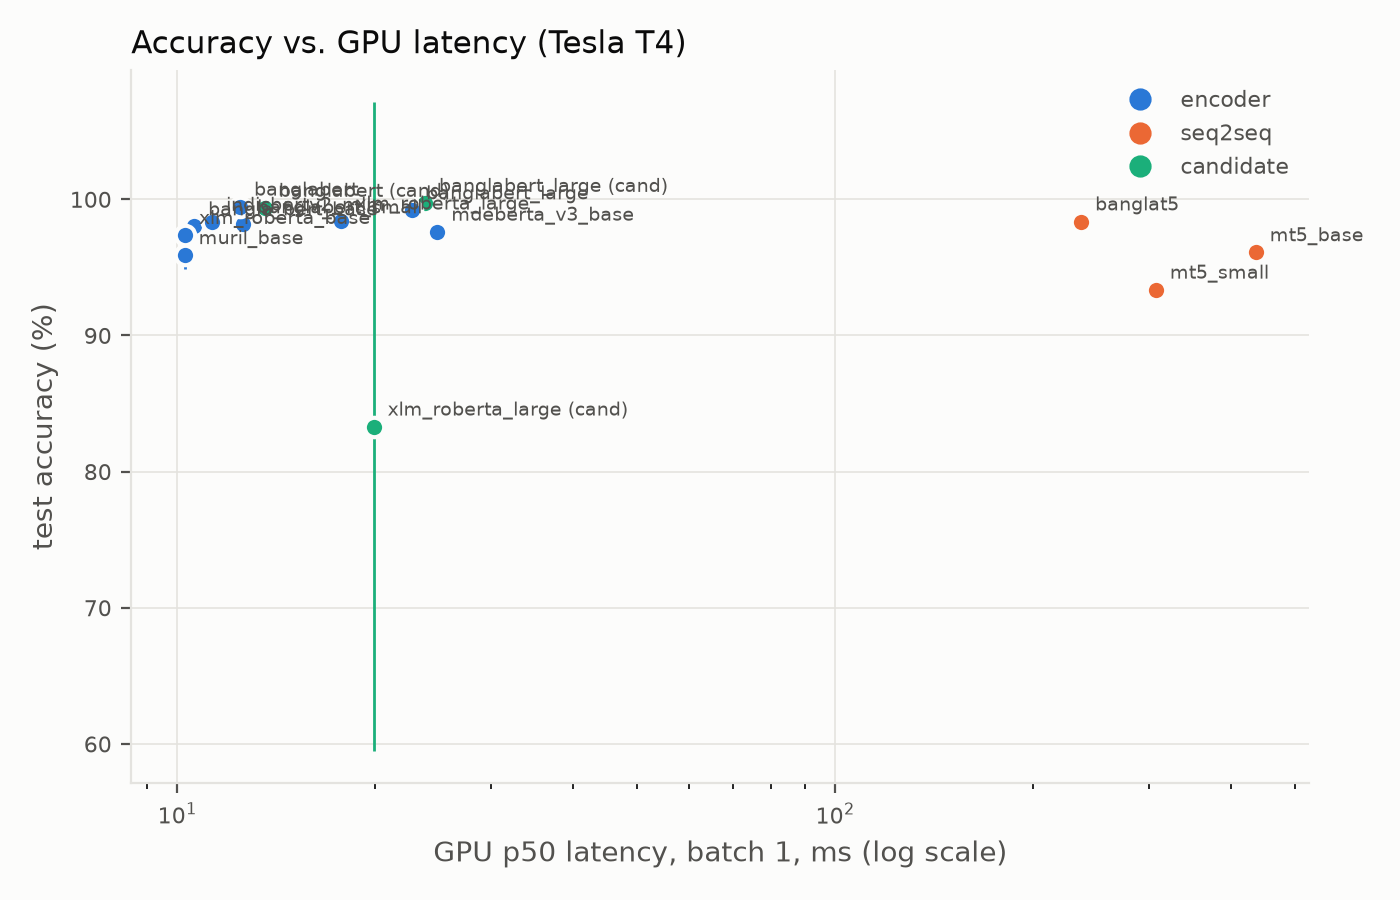
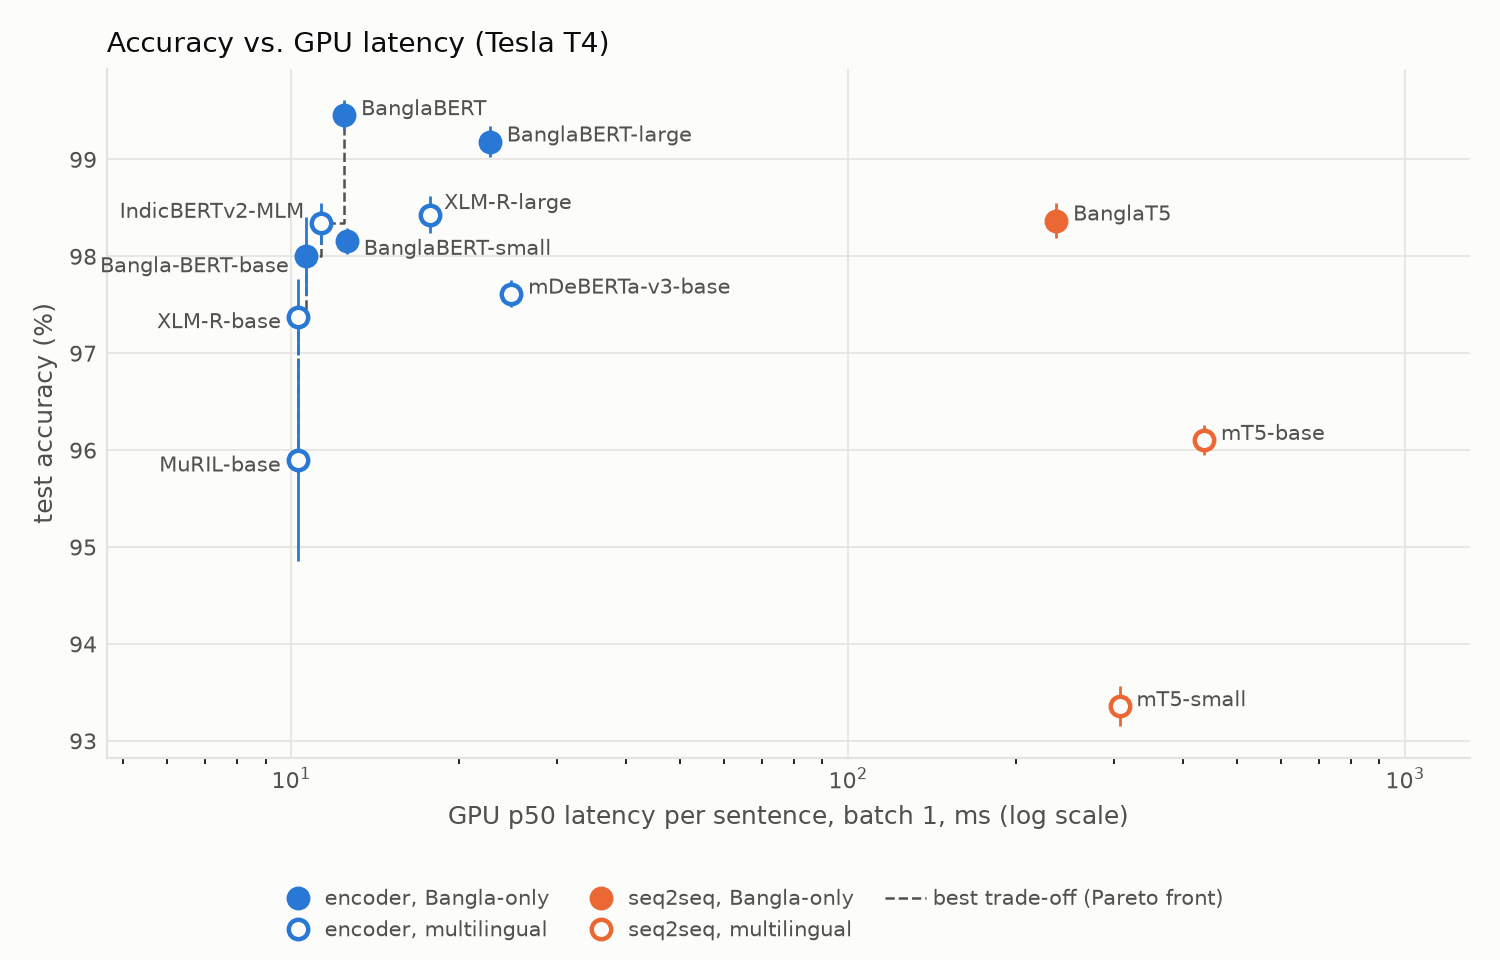
Results plots: display names, no overlapping labels, legends outside the data, model-type colours in learning curves

diff --git a/scripts/aggregate.py b/scripts/aggregate.py
@@ -29,8 +29,8 @@ ABLATIONS = {
     "encoder head": [("main", "opening marker token"), ("abl_head_mean", "mean of target tokens"), ("abl_head_cls", "[CLS]")],
     "seq2seq output": [("main", "full sentence"), ("abl_output_target", "target pronunciation only")],
 }
-# Reference categorical palette, first three slots (validated all-pairs for scatter plots).
-COLORS = {"encoder": "#2a78d6", "seq2seq": "#eb6834", "candidate": "#1baf7a"}
+# Reference categorical palette, first two slots (validated all-pairs for scatter plots).
+COLORS = {"encoder": "#2a78d6", "seq2seq": "#eb6834"}
 INK, INK_2, GRID, SURFACE = "#0b0b0b", "#52514e", "#e4e3df", "#fcfcfb"
 BENGALI_FONT = "/usr/share/fonts/truetype/noto/NotoSansBengali-Regular.ttf"
 
@@ -205,83 +205,148 @@ def lr_search() -> pd.DataFrame:
     return pd.DataFrame(rows)
 
 
-def style(ax, xlabel: str, ylabel: str, title: str) -> None:
+NAMES = {"banglabert_small": "BanglaBERT-small", "banglabert": "BanglaBERT", "bangla_bert_base": "Bangla-BERT-base",
+         "muril_base": "MuRIL-base", "banglat5": "BanglaT5", "xlm_roberta_base": "XLM-R-base",
+         "indicbertv2_mlm": "IndicBERTv2-MLM", "mdeberta_v3_base": "mDeBERTa-v3-base", "mt5_small": "mT5-small",
+         "banglabert_large": "BanglaBERT-large", "xlm_roberta_large": "XLM-R-large", "mt5_base": "mT5-base"}
+BANGLA_ONLY = {"banglabert_small", "banglabert", "bangla_bert_base", "banglat5", "banglabert_large"}
+# Label offsets (points) and alignment for the crowded clusters, per plot; other labels sit to the right of the point.
+LABELS = {
+    "params": {"indicbertv2_mlm": (0, 9, "center"), "bangla_bert_base": (-6, -4, "right"), "banglat5": (-6, -6, "right"), "muril_base": (-6, -3, "right"),
+               "mt5_small": (-6, -3, "right"), "mdeberta_v3_base": (6, 3, "left"), "xlm_roberta_base": (6, -5, "left")},
+    "gpu": {"indicbertv2_mlm": (-6, 4, "right"), "bangla_bert_base": (-6, -4, "right"), "banglabert_small": (6, -3, "left"),
+            "xlm_roberta_base": (-6, -2, "right"), "muril_base": (-6, -2, "right"), "xlm_roberta_large": (5, 4, "left")},
+    "cpu": {"banglabert_small": (-6, 0, "right"), "indicbertv2_mlm": (-6, 5, "right"), "bangla_bert_base": (-6, -5, "right"),
+            "xlm_roberta_large": (0, 7, "center"), "xlm_roberta_base": (6, -3, "left"), "muril_base": (6, -3, "left")},
+}
+LC_YMIN = 80  # learning-curve points below are drawn as an arrow at the bottom edge with their value
+
+
+def style(ax, xlabel: str, ylabel: str, title: str = "") -> None:
     ax.set_facecolor(SURFACE)
-    ax.set_title(title, loc="left", color=INK, fontsize=11)
-    ax.set_xlabel(xlabel, color=INK_2)
-    ax.set_ylabel(ylabel, color=INK_2)
+    if title:
+        ax.set_title(title, loc="left", color=INK, fontsize=10)
+    ax.set_xlabel(xlabel, color=INK_2, fontsize=9)
+    ax.set_ylabel(ylabel, color=INK_2, fontsize=9)
     ax.grid(True, color=GRID, linewidth=0.6)
     ax.set_axisbelow(True)
     for side in ("top", "right"):
         ax.spines[side].set_visible(False)
     for side in ("left", "bottom"):
         ax.spines[side].set_color(GRID)
-    ax.tick_params(colors=INK_2, labelsize=8)
+    ax.tick_params(colors=INK_2, labelsize=8, length=0)
 
 
-def legend(ax, kinds: set[str]) -> None:
-    handles = [plt.Line2D([], [], marker="o", linestyle="", markersize=7, color=COLORS[k], label=k) for k in COLORS if k in kinds]
-    ax.legend(handles=handles, frameon=False, fontsize=8, labelcolor=INK_2)
+def pareto(points: list[tuple[float, float]]) -> list[tuple[float, float]]:
+    """Points not beaten in accuracy by any faster point, sorted by latency."""
+    front, best = [], -1.0
+    for x, y in sorted(points):
+        if y > best:
+            front.append((x, y))
+            best = y
+    return front
 
 
-def scatter(points: pd.DataFrame, x: str, xlabel: str, title: str, out: Path) -> None:
+def scatter(points: pd.DataFrame, x: str, xlabel: str, title: str, panel: str, out: Path) -> None:
+    """Main-split accuracy against size or latency: colour = model type, filled = Bangla-only, hollow = multilingual."""
     points = points.dropna(subset=[x])
     if points.empty:
         return
-    fig, ax = plt.subplots(figsize=(7, 4.5), facecolor=SURFACE)
-    for kind, g in points.groupby("kind"):
-        ax.errorbar(g[x], g["accuracy_mean"] * 100, yerr=g["accuracy_std"].fillna(0) * 100, fmt="o", markersize=7,
-                    color=COLORS[kind], ecolor=COLORS[kind], elinewidth=1, capsize=0, markeredgecolor=SURFACE, markeredgewidth=1.5)
+    fig, ax = plt.subplots(figsize=(7.5, 4.8), facecolor=SURFACE)
     for row in points.itertuples():
-        ax.annotate(row.label, (getattr(row, x), row.accuracy_mean * 100), xytext=(5, 4), textcoords="offset points", fontsize=7, color=INK_2)
+        color, y = COLORS[row.model_type], row.accuracy_mean * 100
+        ax.errorbar(getattr(row, x), y, yerr=0 if np.isnan(row.accuracy_std) else row.accuracy_std * 100, fmt="o", markersize=7,
+                    color=color, ecolor=color, elinewidth=1, capsize=0, markeredgewidth=1.6,
+                    markerfacecolor=color if row.model in BANGLA_ONLY else SURFACE, zorder=3)
+        dx, dy, ha = LABELS[panel].get(row.model, (6, 2, "left"))
+        ax.annotate(NAMES.get(row.model, row.model), (getattr(row, x), y), xytext=(dx, dy), textcoords="offset points",
+                    ha=ha, va="center", fontsize=7.5, color=INK_2)
+    if panel != "params":
+        front = pareto(list(zip(points[x], points["accuracy_mean"] * 100)))
+        ax.step(*zip(*front), where="post", color=INK_2, linestyle="--", linewidth=0.9, zorder=2)
     ax.set_xscale("log")
+    if panel == "params":
+        ticks = [1e7, 3e7, 1e8, 3e8, 1e9]
+        ax.set_xticks(ticks, [f"{t / 1e6:g}M" if t < 1e9 else "1B" for t in ticks])
+        ax.xaxis.set_minor_formatter(matplotlib.ticker.NullFormatter())
+    lo, hi = points[x].min(), points[x].max()
+    ax.set_xlim(lo / 2.2, hi * 3)
     style(ax, xlabel, "test accuracy (%)", title)
-    legend(ax, set(points["kind"]))
+    handles = [plt.Line2D([], [], marker="o", linestyle="", markersize=7, markeredgewidth=1.6, color=COLORS[kind],
+                          markerfacecolor=COLORS[kind] if filled else SURFACE, label=f"{kind}, {langs}")
+               for kind in ("encoder", "seq2seq") for filled, langs in ((True, "Bangla-only"), (False, "multilingual"))]
+    if panel != "params":
+        handles.append(plt.Line2D([], [], color=INK_2, linestyle="--", linewidth=0.9, label="best trade-off (Pareto front)"))
+    ncol = 4 if len(handles) == 4 else 3
+    fig.legend(handles=handles, loc="lower center", ncol=ncol, frameon=False, fontsize=7.5, labelcolor=INK_2,
+               handletextpad=0.3, columnspacing=1.5)
+    fig.tight_layout(rect=(0, 0.05 * -(-len(handles) // ncol), 1, 1))
+    fig.savefig(out, dpi=200, facecolor=SURFACE)
+    plt.close(fig)
+
+
+def learning_curve_plot(curve: pd.DataFrame, types: dict[str, str]) -> None:
+    order = [m for m, _ in MODELS if m in set(curve["model"])]
+    cols = min(6, len(order))
+    rows = -(-len(order) // cols)
+    fig, axes = plt.subplots(rows, cols, figsize=(2.15 * cols, 2.0 * rows + 0.5), facecolor=SURFACE, sharex=True, sharey=True,
+                             squeeze=False)
+    for ax, model in zip(axes.flat, order):
+        for other, g in curve.groupby("model"):  # every other model in light gray behind this one
+            if other != model:
+                ax.plot(g["sentences_per_pronunciation"], g["accuracy_mean"] * 100, color="#d5d4cf", linewidth=0.8)
+        g = curve[curve["model"] == model]
+        color = COLORS[types.get(model, "encoder")]
+        ax.plot(g["sentences_per_pronunciation"], g["accuracy_mean"] * 100, color=color, linewidth=1.8, marker="o",
+                markersize=4.5, markeredgecolor=SURFACE, markeredgewidth=0.8, zorder=3)
+        for k, y in zip(g["sentences_per_pronunciation"], g["accuracy_mean"] * 100):
+            if y < LC_YMIN:
+                ax.plot(k, LC_YMIN + 0.8, marker="v", color=color, markersize=5, clip_on=False, zorder=4)
+                ax.annotate(f"{y:.1f}", (k, LC_YMIN + 0.8), xytext=(-4, 5), textcoords="offset points", fontsize=7, color=color)
+        ax.set_xticks(list(LEARNING_CURVE.values()))
+        ax.set_ylim(LC_YMIN, 100.5)
+        ax.set_xlim(1, 15)
+        style(ax, "", "", NAMES.get(model, model))
+    for ax in axes.flat[len(order):]:
+        ax.set_visible(False)
+    fig.supxlabel("training sentences per pronunciation (seed 42; 14 = main run)", color=INK_2, fontsize=9)
+    fig.supylabel("test accuracy (%)", color=INK_2, fontsize=9)
     fig.tight_layout()
-    fig.savefig(out, dpi=200)
+    fig.savefig(PLOTS / "learning_curves.png", dpi=200, facecolor=SURFACE)
+    plt.close(fig)
+
+
+def hardest_words_plot(words: pd.DataFrame) -> None:
+    hardest = words.groupby("spelling")["accuracy"].mean().sort_values().head(20)[::-1] * 100
+    font = font_manager.FontProperties(fname=BENGALI_FONT) if Path(BENGALI_FONT).exists() else None
+    fig, ax = plt.subplots(figsize=(6, 6), facecolor=SURFACE)
+    ax.barh(range(len(hardest)), hardest.values, color=COLORS["encoder"], height=0.62)
+    for i, v in enumerate(hardest.values):
+        ax.annotate(f"{v:.1f}", (v, i), xytext=(4, 0), textcoords="offset points", va="center", fontsize=7.5, color=INK_2)
+    ax.set_yticks(range(len(hardest)), hardest.index, fontproperties=font, fontsize=10)
+    ax.set_xlim(0, 105)
+    style(ax, "test accuracy (%), mean over models and seeds", "",
+          f"20 hardest words ({words['model'].nunique()} models, main split)")
+    ax.grid(axis="y", visible=False)
+    fig.tight_layout()
+    fig.savefig(PLOTS / "hardest_words.png", dpi=200, facecolor=SURFACE)
     plt.close(fig)
 
 
 def plots(summary: pd.DataFrame, curve: pd.DataFrame, words: pd.DataFrame) -> None:
     PLOTS.mkdir(parents=True, exist_ok=True)
-    main = summary[(summary["test_set"] == "test") & summary["setting"].isin(["main", "cand_main"])].copy()
-    main["kind"] = np.where(main["setting"] == "cand_main", "candidate", main["model_type"])
-    main["label"] = np.where(main["setting"] == "cand_main", main["model"] + " (cand)", main["model"])
-    scatter(main, "params", "parameters (log scale)", "Accuracy vs. model size", PLOTS / "accuracy_vs_params.png")
-    scatter(main, "gpu_p50_ms", "GPU p50 latency, batch 1, ms (log scale)", "Accuracy vs. GPU latency (Tesla T4)", PLOTS / "accuracy_vs_latency_gpu.png")
-    scatter(main, "cpu4_p50_ms", "CPU p50 latency, batch 1, 4 threads, ms (log scale)", "Accuracy vs. CPU latency", PLOTS / "accuracy_vs_latency_cpu.png")
-
+    # Main benchmark only; candidate scoring, the unseen split and the ablations are in summary.md and ablations.md.
+    main = summary[(summary["test_set"] == "test") & (summary["setting"] == "main")].copy()
+    scatter(main, "params", "parameters (log scale)", "Accuracy vs. model size (main split)", "params",
+            PLOTS / "accuracy_vs_params.png")
+    scatter(main, "gpu_p50_ms", "GPU p50 latency per sentence, batch 1, ms (log scale)", "Accuracy vs. GPU latency (Tesla T4)",
+            "gpu", PLOTS / "accuracy_vs_latency_gpu.png")
+    scatter(main, "cpu4_p50_ms", "CPU p50 latency per sentence, batch 1, 4 threads, ms (log scale)", "Accuracy vs. CPU latency",
+            "cpu", PLOTS / "accuracy_vs_latency_cpu.png")
     if not curve.empty:
-        models = list(dict.fromkeys(curve["model"]))
-        cols = min(4, len(models))
-        rows = -(-len(models) // cols)
-        fig, axes = plt.subplots(rows, cols, figsize=(3 * cols, 2.4 * rows), facecolor=SURFACE, sharex=True, sharey=True, squeeze=False)
-        for ax, model in zip(axes.flat, models):
-            for other, g in curve.groupby("model"):  # every other model in light gray behind this one
-                if other != model:
-                    ax.plot(g["sentences_per_pronunciation"], g["accuracy_mean"] * 100, color="#c3c2be", linewidth=1)
-            g = curve[curve["model"] == model]
-            ax.plot(g["sentences_per_pronunciation"], g["accuracy_mean"] * 100, color="#2a78d6", linewidth=2, marker="o",
-                    markersize=5, markeredgecolor=SURFACE)
-            ax.set_xticks(list(LEARNING_CURVE.values()))
-            style(ax, "sentences per pronunciation", "test accuracy (%)", model)
-        for ax in axes.flat[len(models):]:
-            ax.set_visible(False)
-        fig.tight_layout()
-        fig.savefig(PLOTS / "learning_curves.png", dpi=200)
-        plt.close(fig)
-
+        learning_curve_plot(curve, dict(zip(main["model"], main["model_type"])))
     if not words.empty:
-        hardest = words.groupby("spelling")["accuracy"].mean().sort_values().head(20)[::-1]
-        font = font_manager.FontProperties(fname=BENGALI_FONT) if Path(BENGALI_FONT).exists() else None
-        fig, ax = plt.subplots(figsize=(6, 6), facecolor=SURFACE)
-        ax.barh(range(len(hardest)), hardest.values * 100, color=COLORS["encoder"], height=0.7)
-        ax.set_yticks(range(len(hardest)), hardest.index, fontproperties=font, fontsize=10)
-        style(ax, "test accuracy (%), mean over models and seeds", "", f"Hardest words ({words['model'].nunique()} models, main split)")
-        ax.grid(axis="y", visible=False)
-        fig.tight_layout()
-        fig.savefig(PLOTS / "hardest_words.png", dpi=200)
-        plt.close(fig)
+        hardest_words_plot(words)
 
 
 def status(model: str) -> str:
